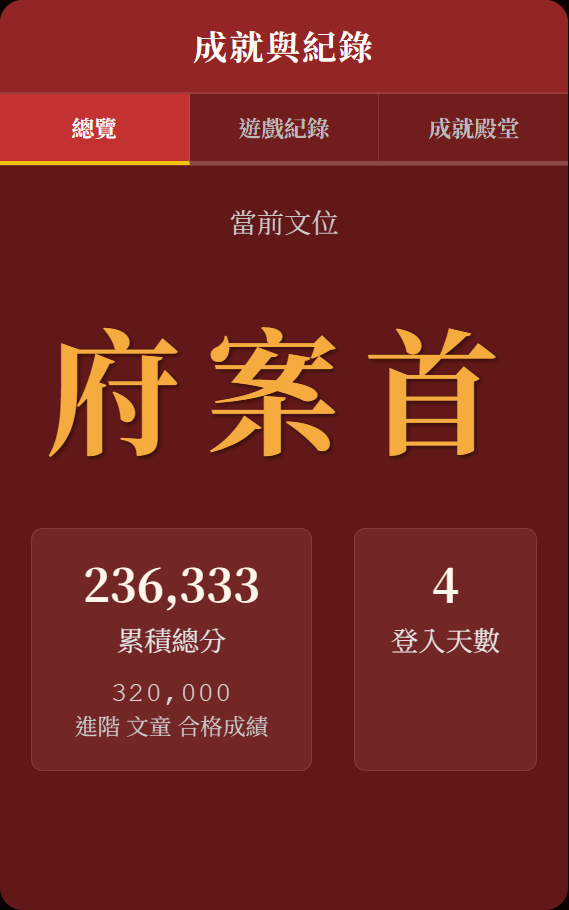
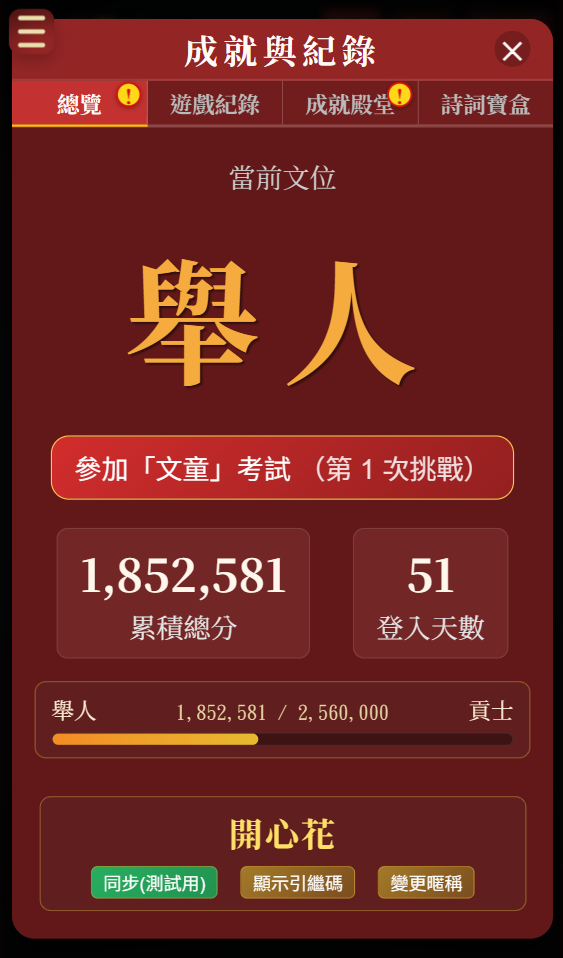
V0.28.1.0 更新所有遊戲的DEMO、MENU圖片，22位重要作者生平資料。

diff --git a/menu.js b/menu.js
@@ -44,17 +44,17 @@
         { page: 'game29', label: '字龍盤環', image: 'images/Menu/字龍盤環_Menu256.jpg' },
         { page: 'game30', label: '層巒疊翠', image: 'images/Menu/層巒疊翠_Menu256.jpg' },
         { page: 'game31', label: '詩眼覓蹤', image: 'images/Menu/詩眼覓蹤_Menu256.jpg' },
-        { page: 'game32', label: '尋詩地圖', image: 'images/Menu/詩句尋寶圖_Menu256.jpg' },
-        { page: 'game33', label: '作者是誰', image: 'images/Menu/作者連連看_Menu256.jpg' },
-        { page: 'game34', label: '猜猜詩題', image: 'images/Menu/詩題猜猜看_Menu256.jpg' },
-        { page: 'game35', label: '詩人心情', image: 'images/Menu/詩人的一天_Menu256.jpg' },
+        { page: 'game32', label: '尋詩地圖', image: 'images/Menu/尋詩地圖_Menu256.jpg' },
+        { page: 'game33', label: '作者是誰', image: 'images/Menu/作者是誰_Menu256.jpg' },
+        { page: 'game34', label: '猜猜詩題', image: 'images/Menu/猜猜詩題_Menu256.jpg' },
+        { page: 'game35', label: '詩人心情', image: 'images/Menu/詩人心情_Menu256.jpg' },
         { page: 'achievements', label: '成就紀錄', image: 'images/Menu/成就與紀錄_Menu256.jpg' },
-        { page: 'leaderboard', label: '群英榜', image: 'images/Menu/成就與紀錄_Menu256.jpg' },
-        { page: 'collection', label: '江南小院', image: 'images/Menu/成就與紀錄_Menu256.jpg' },
+        { page: 'leaderboard', label: '群英榜', image: 'images/Menu/群英榜_Menu256.jpg' },
+        { page: 'collection', label: '江南小院', image: 'images/Menu/江南小院_Menu256.jpg' },
         { page: 'author-biography', label: '名人列傳', image: 'images/Menu/名人列傳_Menu256.jpg' },
         { page: 'poem-data', label: '詩詞資料', image: 'images/Menu/詩詞資料集_Menu256.jpg' },
         { page: 'about', label: '關於花月', image: 'images/Menu/關於花月_Menu256.jpg' },
-        { page: 'qrcode', label: 'QR Code', image: 'images/Menu/QRCode_Menu256.jpg' },
+        { page: 'qrcode', label: 'QR Code', image: 'images/Menu/花月QRCode_Menu256.jpg' },
         { page: 'fullscreen', label: '全螢幕', image: 'images/Menu/全螢幕_Menu256.jpg' },
     ];
 
@@ -247,7 +247,7 @@
             const coll = (window.FMCollectionSave && window.FMCollectionSave.load()) || null;
             if (data && coll) {
                 const claimed = (data.achievements && data.achievements.claimed) || [];
-                const passed  = (coll.ranks && coll.ranks.passed) || [];
+                const passed = (coll.ranks && coll.ranks.passed) || [];
                 const totalScore = Math.floor(data.totalScore || 0);
                 const examNames = (window.ScoreManager && window.ScoreManager.EXAM_RANK_NAMES) || [];
 

diff --git a/scoreManager.js b/scoreManager.js
@@ -65,10 +65,10 @@ const ScoreManager = {
         'game29': { base: 100, heart: 10, time: 3, getPointA: 10 }, //字龍盤環（滾球收集）
         'game30': { base: 100, heart: 10, time: 3, getPointA: 10 }, //層巒疊翠（麻將疊疊）
         'game31': { base: 100, heart: 10, time: 3, getPointA: 10 }, //詩眼覓蹤（字詞替換）
-        'game32': { base: 100, heart: 10, time: 2, getPointA: 10 }, //尋詩地圖（地圖故事）
-        'game33': { base: 100, heart: 10, time: 3, getPointA: 10 }, //作者是誰（風格辨識）
-        'game34': { base: 100, heart: 10, time: 3, getPointA: 10 }, //猜猜詩題（標題配對）
-        'game35': { base: 100, heart: 10, time: 2, getPointA: 10 } //詩人心情（情境推理）
+        'game32': { base: 100, heart: 10, time: 0, getPointA: 10 }, //尋詩地圖（地圖故事）
+        'game33': { base: 100, heart: 10, time: 0, getPointA: 10 }, //作者是誰（風格辨識）
+        'game34': { base: 100, heart: 10, time: 0, getPointA: 10 }, //猜猜詩題（標題配對）
+        'game35': { base: 100, heart: 10, time: 0, getPointA: 10 } //詩人心情（情境推理）
     },
 
     // 玩家階級設定：根據總分決定玩家的級別
@@ -150,7 +150,7 @@ const ScoreManager = {
     },
 
     // 縣案首起的文位（必須通過考試 + 領取獎狀才生效）
-    EXAM_RANK_NAMES: ['縣案首','府案首','文童','秀才','舉人','貢士','進士','探花','榜眼','狀元','大儒'],
+    EXAM_RANK_NAMES: ['縣案首', '府案首', '文童', '秀才', '舉人', '貢士', '進士', '探花', '榜眼', '狀元', '大儒'],
 
     /**
      * 依「積分」+「已領獎狀」交叉判定實際文位（供 UI 顯示用）。

diff --git a/game17.js b/game17.js
@@ -69,8 +69,8 @@
             //hint: 正確字提示，all / sentence / none
             //maxMistakeCount：最大失誤次數（即生命值，扣完即遊戲結束）
             '小學': {
-                timeLimitRate: 5, baseSpeed: 50, minPadsPerRow: 4, maxPadsPerRow: 5, sinkDelay: 8000,
-                poemMinRating: 6, lineCount: 4, singleCharProb: 0.10, closeNeighborProb: 0.70, hint: 'all',
+                timeLimitRate: 5, baseSpeed: 50, minPadsPerRow: 4, maxPadsPerRow: 5, sinkDelay: 10000,
+                poemMinRating: 6, lineCount: 4, singleCharProb: 0.0, closeNeighborProb: 0.70, hint: 'all',
                 maxMistakeCount: 8
             },
             '中學': {

diff --git a/introCard.js b/introCard.js
@@ -78,7 +78,7 @@
                         <div class="intro-text-block">
                             <p>賞花吟月，品味詩詞之美</p>
                             <p>寓教於樂，挑戰傳統文學</p>
-                            <p>更新：2026-06-17 V0.26.1.0</p>
+                            <p>更新：2026-07-02 V0.28.1.0</p>
                         </div>
                     </div>
                     

diff --git a/README.md b/README.md
@@ -60,54 +60,75 @@
 ![翻墨識蹤_Demo](images/Demo/翻墨識蹤_Demo.png) 
 
 12. **疏影橫斜 (Game 12)**：同時考驗詩詞能力與記憶力，除了熟記詩句，還需依序翻開被覆蓋的詩句，高溫融化感性與理性，一起燃燒大腦。
-
 ![疏影橫斜_Demo](images/Demo/疏影橫斜_Demo.png) 
 
 13. **人事時地 (Game 13)**：從詩詞的人、事、時、地四個維度出發，在限時內精確回答詩詞相關問答，考驗對詩詞背景知識的全面掌握。
+![人事時地_Demo](images/Demo/人事時地_Demo.png) 
 
 14. **步步驚心 (Game 14)**：步步為營的詩詞填空挑戰，在層層遞進的關卡中逐字填寫詩句，每一步都可能是通往正確答案或萬丈深淵的轉折。
+![步步驚心_Demo](images/Demo/步步驚心_Demo.png) 
 
 15. **墨韻游龍 (Game 15)**：化身筆頭游龍，在 13×18 的墨色棋盤上依字序收集散落的詩句字塊，讓龍身化為流動的彩虹詩篇，一字一字把整首詩吃進靈魂。
+![墨韻游龍_Demo](images/Demo/墨韻游龍_Demo.png) 
 
 16. **打地詩 (Game 16)**：經典「打地洞」的詩詞版。從多個地洞中隨機彈出正確字與大量混淆字，玩家須在正確時機依詩句字序精準擊打，同時避開語意誘餌字。
+![打地詩_Demo](images/Demo/打地詩_Demo.png) 
 
 17. **青蛙過河 (Game 17)**：操控象徵「詩心」的青蛙，依詩句正確字序在流動的荷葉與木頭間跳躍集字；荷葉踩過後緩緩沉沒，逼迫玩家在動態河面上即時判斷下一步落腳。
+![青蛙過河_Demo](images/Demo/青蛙過河_Demo.png) 
 
 18. **馬戲團 (Game 18)**：化身騎著書卷的詩人，穿越「跳火環關」與「彈簧床關」兩種馬戲舞台，依字序只跳載著正確詩字的火環、或精準落在標有下一個字的彈簧床上，連續完美落點拼出整首詩。
 
 19. **詩碟狂襲 (Game 19)**：底部砲台左右移動射擊緩緩下降的詩詞字陣。每排只有一個正確字，在混淆字干擾與炸彈轟炸中逐字擊碎正確字、清空全陣。
+![詩碟狂襲_Demo](images/Demo/詩碟狂襲_Demo.png) 
 
 20. **丟三落一 (Game 20)**：從詩中截取數句、隱藏其中一整句，玩家從 4~8 個完整詩句選項中選出正確的那一句，填回它在詩中消失的位置。
+![丟三落一_Demo](images/Demo/丟三落一_Demo.png) 
 
 21. **橫批成詩 (Game 21)**：在 8×13 字元棋盤上以左右拖曳換位、上下拖曳滑動直棒，讓每根直棒中的正確字對齊中央「黃金橫批列」，使橫批由左至右拼出隱藏詩句。
+![橫批成詩_Demo](images/Demo/橫批成詩_Demo.png) 
 
 22. **詩詞拼圖 (Game 22)**：系統把詩的多行文字切割為各種形狀拼圖片（1×1、1×2、1×3、L 型、1×4、2×2）打亂排列，玩家拖曳拼回完整詩詞原文。
+![詩詞拼圖_Demo](images/Demo/詩詞拼圖_Demo.png) 
 
 23. **縱橫集句 (Game 23)**：在 9×9 格子中重組打散的拼圖，還原「一句主軸詩 + 多首副句詩縱橫交叉」的填字畫，每首副句與主句共享一字，形成多維度詩詞交叉記憶網絡。
+![縱橫集句_Demo](images/Demo/縱橫集句_Demo.png) 
 
 24. **三字成珠 (Game 24)**：花月版三消連線。在漢字棋盤上拖曳交換相鄰字塊形成同字三連消除，並收集當前句的目標字。完成一句進入下一句，集滿整首詩過關。連消 4/5 連生成方向爆破道具。
+![三字成珠_Demo](images/Demo/三字成珠_Demo.png) 
 
 25. **連珠拾字 (Game 25)**：按住起點字塊後沿八方向拖曳穿過相鄰同字字塊，放開時整條 ≥3 連消除，路徑長度即為該字收集次數。順序符合詩句字序時觸發「順序成詩」倍率加成。
+![連珠拾字_Demo](images/Demo/連珠拾字_Demo.png) 
 
 26. **投珠破句 (Game 26)**：花月版泡泡龍。自下方發射台朝上方字泡泡牆射出字泡泡，命中 3 顆以上同字即消除。泡泡牆每隔數秒下推，須在觸底前完成詩句字頻收集。
+![投珠破句_Demo](images/Demo/投珠破句_Demo.png) 
 
 27. **詩磚壘塔 (Game 27)**：花月版俄羅斯方塊。在 6×12 垂直棋盤中引導下落的「漢字磚塊」（2~4 字組合）落入合適位置，橫向或縱向形成同字 3 連即消除。堆疊觸頂前完成整首詩過關。
+![詩磚壘塔_Demo](images/Demo/詩磚壘塔_Demo.png) 
 
 28. **兩心相印 (Game 28)**：花月版連連看。在靜態漢字盤面點選兩張相同字牌；若兩牌間能以不超過 3 折角的直線路徑相連則消除，連續符合字序觸發倍率加成。
+![兩心相印_Demo](images/Demo/兩心相印_Demo.png) 
 
 29. **字龍盤環 (Game 29)**：花月版軌道滾球射擊。在偽 3D 環形軌道中朝持續流動的字球長龍射出字球，命中 3 顆以上同字相連即消除。長龍頭抵達終點前完成整首詩過關。
+![字龍盤環_Demo](images/Demo/字龍盤環_Demo.png) 
 
 30. **層巒疊翠 (Game 30)**：花月版立體麻將。點擊偽 3D 立體字牌山「最上層且左右未被遮擋」的字牌，飛入下方暫存槽；槽中集滿 3 張同字即消除。在暫存槽塞滿前完成詩句字頻收集。
+![層巒疊翠_Demo](images/Demo/層巒疊翠_Demo.png) 
 
 31. **詩眼覓蹤 (Game 31)**：螢幕中央一句詩裡有一個字被替換成意義或字形相近的「替身字」。玩家在限時內找出可疑字，往下拖曳浮出直排候選字捲輪，放手對齊紅線復原原字。同時考驗詩詞熟識度與字形辨識力。
+![詩眼覓蹤_Demo](images/Demo/詩眼覓蹤_Demo.png) 
 
 32. **尋詩地圖 (Game 32)**：化身「詩詞地理學家」，在簡化中國古地圖上探索 20 個著名地點（廬山、長安、揚州、洛陽、岳陽、黃鶴樓、寒山寺等）。每處對應一首相關詩作與地方故事，讀完故事後須在詩文中找出涉及該地的景物關鍵字並標回地圖。
+![尋詩地圖_Demo](images/Demo/尋詩地圖_Demo.png) 
 
 33. **作者是誰 (Game 33)**：螢幕中央顯示一句（或數句）詩，下方列出 4~8 位候選詩人。玩家在限時內判斷詩出自誰手、點擊正確姓名得分，連續答對觸發連擊倍率，培養「讀詩識人」的快速反應。
+![作者是誰_Demo](images/Demo/作者是誰_Demo.png) 
 
 34. **猜猜詩題 (Game 34)**：螢幕顯示一首完整詩作但標題位置以「？？？」遮蔽，下方縱向列出 4 張候選標題卡。玩家在限時內判斷正確詩題，答對則標題以毛筆動畫寫入〈？？？〉位置，並朗誦整首詩一次。
+![猜猜詩題_Demo](images/Demo/猜猜詩題_Demo.png) 
 
 35. **詩人心情 (Game 35)**：玩家化身詩人的「同行者」，閱讀詩人某日的小故事（如李白被賜金放還、蘇軾夜遊承天寺、杜甫春望長安）。讀完系統提問「此刻他寫下哪首詩？」，從 4 句候選詩中選出最符合該情境心境的一句，答對則播放整首詩的情境動畫並飛入「詩人日記」收藏。
+![詩人心情_Demo](images/Demo/詩人心情_Demo.png) 
 
 ### 🏛️ 考棚（Exam / v0.28.0）
 - **積分決定資格，考試決定文位**：從「縣案首」起共 11 個文位（縣案首、府案首、文童、秀才、舉人、貢士、進士、探花、榜眼、狀元、大儒），每個文位需通過對應考試才能正式登錄。
@@ -176,6 +197,7 @@
 
 | 版本 | 日期 | 更新亮點 |
 | :--- | :--- | :--- |
+| **V0.28.1.0** | 2026-07-02 | 更新所有遊戲的DEMO、MENU圖片，22位重要作者生平資料。 |
 | **V0.28.0.0** | 2026-07-01 | **考試（考棚）系統 MVP 上線**：完整實作《參加考試_企畫書 v2》— 「積分達標→考試通過→領獎狀」四步流程。新檔 `exam.js` + `exam.css`，11 個文位（縣案首→大儒）獨立難度設定，抄襲 game20 的 formats A/B/C（2/3/3 行題型）+ minMaskCount/maxMaskCount 遮罩機制，抄襲 game1 的 SVG 邊框倒數計時（順時針縮短、暗紅→鮮紅漸變）。10 題共用心、答對揭曉遮罩字（綠色 pop 動畫）、選項容器隨數量垂直置中。① `fmCollectionSave.js` v3 migrate 新增 `examStats: { <文位>: { passCount, failCount, lastAttemptTs } }` 記錄每個文位的挑戰次數作為玩家「光榮勳章」。② `scoreManager.js` 新增 `getEffectiveRank(data)`：以「已領獎狀」判定文位，未通過考試前封頂在童生。③ `collection.js` `openExam`/`takeExam` 顯示第 N 次挑戰 + 歷次通過/失敗次數、`takeExam` 導向 `Exam.start` 取代原本機率判定。④ `achievement.js` 總覽新增智慧 CTA（自動於「參加考試」與「領取獎狀」二態切換）、進階橫欄進度條、總覽/成就殿堂頁籤紅點提示、漢堡選單成就圖示右上角提示。⑤ 通過按鈕「返回【成就與紀錄】」引導立刻領獎狀。⑥ 頁籤點擊自動捲到第一顆待領獎狀（scaled container 座標換算修正）。⑦ Alt+E 測試熱鍵：11 文位選擇彈窗，全程不寫存檔/雲端/log。⑧ 領獎狀 + 過關結算同步發放文錢（100 分=1 文錢比例）、messagebox 顯示「XXXX 分 XX 文錢」。|
 | **V0.27.2.0** | 2026-06-25 | 多遊戲品質優化：① game8 一筆裁詩修正中間列線條 Y 偏差（SVG viewBox + minmax(0,1fr) 強制等分）、放大鏡偏移考量 stageScale、新增 `getPointAMul` 難度倍率機制。② scoreManager 新增 `getPointA(gameKey, difficulty)` / `getPointB(gameKey, difficulty)` getter 支援難度過程得分倍率（其他遊戲無此欄位則不影響）；過關星星與倒數框動畫節奏加倍（飛行 1000→500ms、倒數 tick 半速）；星星生成位置改為順時針與倒數框一致；每顆星星 hue/sat ±15%、size ±30% 隨機變化。③ game9 詩韻鎖扣修正「最後一步剛好完成卻被判步數用盡」順序錯誤。④ game16 打地詩修正錯過/打錯後 1~2 秒死寂（場上無活字立即推進下一批，銜接時間 350→150ms）。⑤ game19 詩碟狂襲「雙管齊發」達 3 發上限時牌子灰化不可點，文字改為「砲管/數量/達上限」。⑥ game20 丟三落一遮蔽字規格全面重訂（依五言/七言/其他與遮蔽字數採前/後/中段套式），過關後以原咖啡色顯示被遮蔽字。⑦ game21 橫批成詩過關每字加 getPointA、開局隱藏 poem-info 至提示全顯或過關才解鎖、優先鎖定單字答案棒。⑧ game22 詩詞拼圖、game23 縱橫集句過關每片加 getPointA、開局隱藏 poem-info。|
 | **V0.27.1.0** | 2026-06-18 | 重新commit and push。|